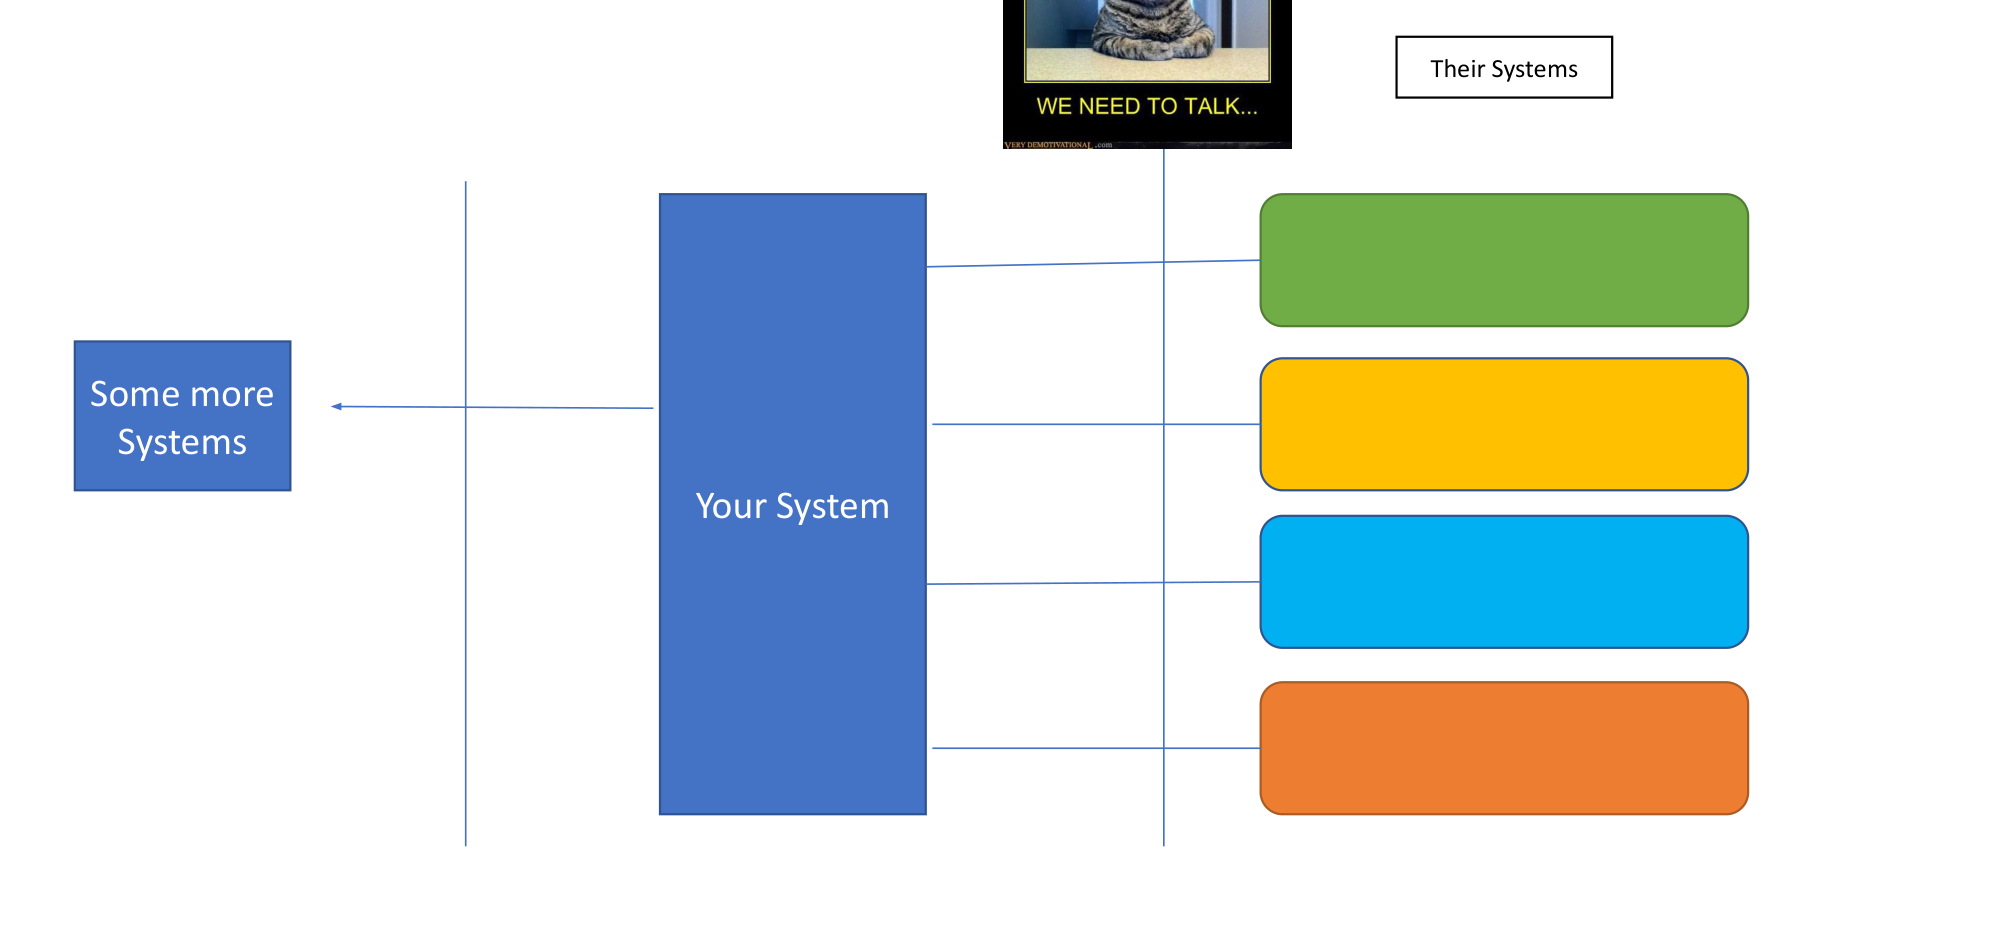
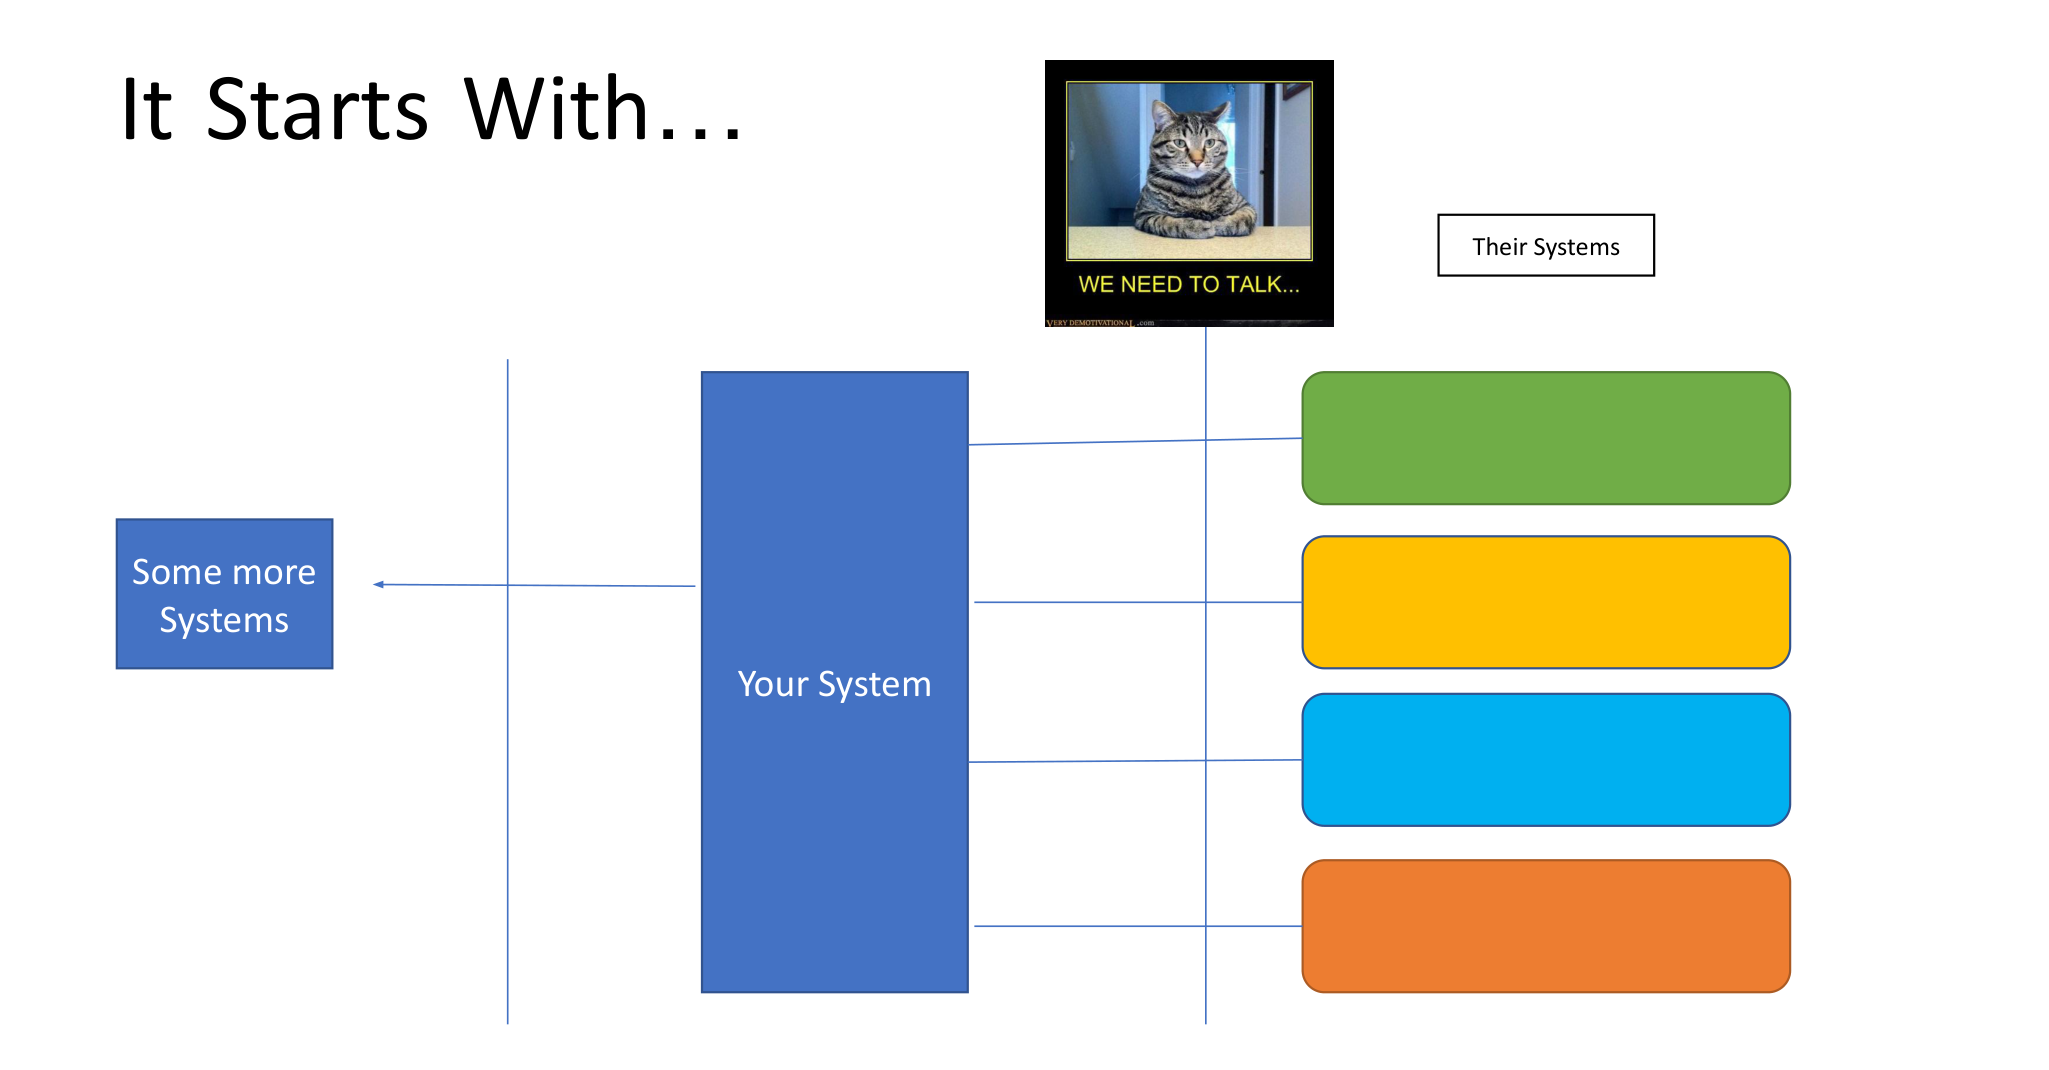
Fix It Starts With diagram crop (full cat) and remove redundant leftover text/images

diff --git a/README.md b/README.md
@@ -1,54 +1,28 @@
-# Specific is Smart
+# Specific is Smart
 
 *By Sachin Dixit*
 
 ## It Starts With…
 
-A picture of the integration landscape you begin from:
-
-<img src="assets/images/slide-2-diagram.png" width="560" alt="Your System connected to Their Systems and Some more Systems">
-
-- **Your System**
-- **Their Systems**
-- **Some more Systems**
-
-<img src="assets/images/slide-2-img1.jpg" width="200" alt="We need to talk">
+<img src="assets/images/slide-2-diagram.png" width="640" alt="Your System wired to four Their Systems boxes and Some more Systems, with a we-need-to-talk cat">
 
 ## Protocols are different
 
-Every system you connect to talks over a different protocol:
+<img src="assets/images/slide-3-diagram.png" width="600" alt="Your System connected to boxes labeled http, ftp, wss, and Some blah">
 
-<img src="assets/images/slide-3-diagram.png" width="560" alt="Different protocols (http, ftp, wss) between systems">
-
-- Their Systems ↔ Your System ↔ Some more Systems
-- `http`
-- `ftp`
-- `wss`
-- Some blah
+Protocols in play across the systems: `http`, `ftp`, `wss`, and "Some blah".
 
 ## Semantics are different
 
-The same idea is exposed through different service styles:
+<img src="assets/images/slide-4-diagram.png" width="600" alt="Your System connected to boxes labeled SOAP, REST, SFTP, FTPs">
 
-<img src="assets/images/slide-4-diagram.png" width="560" alt="Different service semantics (SOAP, REST, SFTP, FTPs) between systems">
-
-- Their Systems ↔ Your System ↔ Some more Systems
-- SOAP
-- REST
-- SFTP
-- FTPs
+Service styles across the systems: SOAP, REST, SFTP, FTPs.
 
 ## Formats are different
 
-And the payload formats never line up either:
+<img src="assets/images/slide-5-diagram.png" width="600" alt="Your System connected to boxes labeled XML, JSON, CSV, separated">
 
-<img src="assets/images/slide-5-diagram.png" width="560" alt="Different payload formats (XML, JSON, CSV, separated) between systems">
-
-- Their Systems ↔ Your System ↔ Some more Systems
-- `< XML >`
-- `{ JSON }`
-- `C,S,V`
-- `|s|e|p|e|r|a|t|e|d|`
+Payload formats across the systems: `< XML >`, `{ JSON }`, `C,S,V`, `|s|e|p|e|r|a|t|e|d|`.
 
 ## Key Problem
 
@@ -140,11 +114,7 @@ And the payload formats never line up either:
 
 ## Data Destination Differences
 
-The same data has to fan out to many destinations — Your System, Some System, Some more Systems — each expecting something slightly different.
-
-<img src="assets/images/slide-9-diagram.png" width="600" alt="Data fanning out from Your System to multiple destinations with crossed routing">
-
-<img src="assets/images/slide-9-img1.jpg" width="180" alt="We need to talk"> <img src="assets/images/slide-9-img2.jpg" width="180" alt="We need to talk">
+<img src="assets/images/slide-9-diagram.png" width="640" alt="Data fanning out from Your System to Some System and Some more Systems with crossed routing arrows and two we-need-to-talk cats">
 
 ## Data Destination Differences (Enterprise Integration Patterns)
 